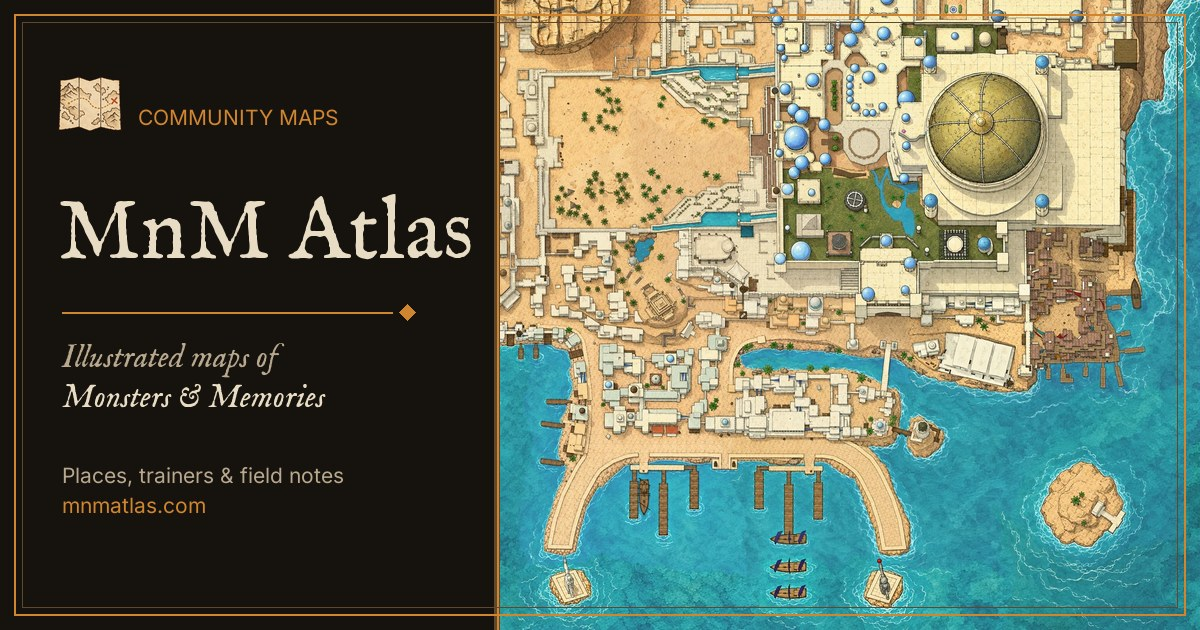
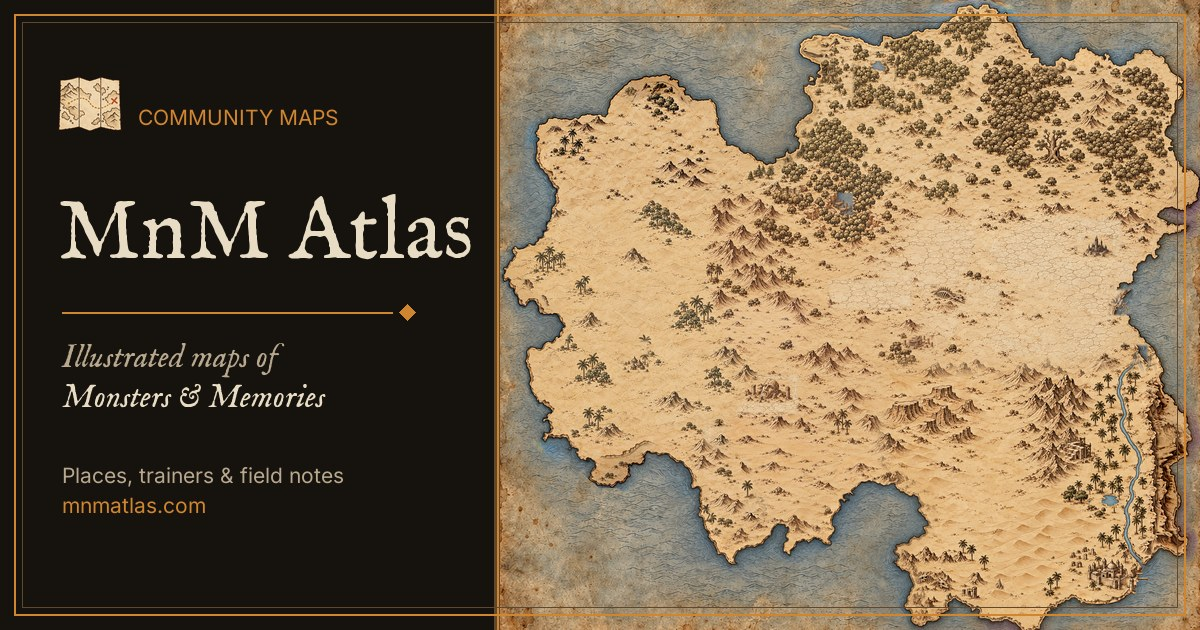
Link previews: world map card, and the site card now shows the world map

diff --git a/index.html b/index.html
@@ -4,8 +4,8 @@
  <meta charset="utf-8"><base href="./"><meta name="viewport" content="width=device-width,initial-scale=1">
  <meta name="theme-color" content="#16120e"><meta name="description" content="An illustrated community atlas of Monsters & Memories.">
  <meta property="og:site_name" content="MnM Atlas"><meta property="og:title" content="MnM Atlas"><meta property="og:description" content="An illustrated community atlas of Monsters & Memories."><meta property="og:url" content="https://www.mnmatlas.com/"><meta property="og:type" content="website">
- <meta property="og:image" content="https://www.mnmatlas.com/assets/og-card.jpg?v=4"><meta property="og:image:type" content="image/jpeg"><meta property="og:image:width" content="1200"><meta property="og:image:height" content="630"><meta property="og:image:alt" content="MnM Atlas, illustrated maps of Monsters & Memories, beside a watercolour chart of a harbour city.">
- <meta name="twitter:card" content="summary_large_image"><meta name="twitter:title" content="MnM Atlas"><meta name="twitter:description" content="An illustrated community atlas of Monsters & Memories."><meta name="twitter:image" content="https://www.mnmatlas.com/assets/og-card.jpg?v=4">
+ <meta property="og:image" content="https://www.mnmatlas.com/assets/og-card.jpg?v=5"><meta property="og:image:type" content="image/jpeg"><meta property="og:image:width" content="1200"><meta property="og:image:height" content="630"><meta property="og:image:alt" content="MnM Atlas, illustrated maps of Monsters & Memories, beside a watercolour chart of a harbour city.">
+ <meta name="twitter:card" content="summary_large_image"><meta name="twitter:title" content="MnM Atlas"><meta name="twitter:description" content="An illustrated community atlas of Monsters & Memories."><meta name="twitter:image" content="https://www.mnmatlas.com/assets/og-card.jpg?v=5">
  <link rel="icon" href="favicon.ico" sizes="48x48"><link rel="icon" href="assets/icons/icon-32.png" type="image/png" sizes="32x32"><link rel="icon" href="assets/icons/icon-16.png" type="image/png" sizes="16x16"><link rel="apple-touch-icon" href="assets/icons/apple-touch-icon.png"><link rel="manifest" href="site.webmanifest"><title>MnM Atlas</title>
  <link rel="stylesheet" href="assets/vendor/leaflet.css"><link rel="stylesheet" href="style.css?v=atlas-20">
  <script defer src="assets/vendor/leaflet.js"></script><script defer src="icons.js?v=atlas-18"></script><script defer src="hidden-areas.js?v=atlas-10"></script><script defer src="place-labels.js?v=atlas-19"></script><script defer src="world-zones.js?v=atlas-4"></script><script defer src="config.js"></script><script defer src="assets/vendor/supabase.js"></script><script defer src="app.js?v=atlas-27"></script><script defer src="community.js?v=atlas-3"></script>
